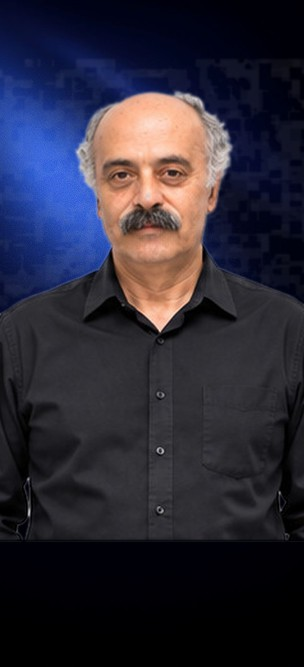
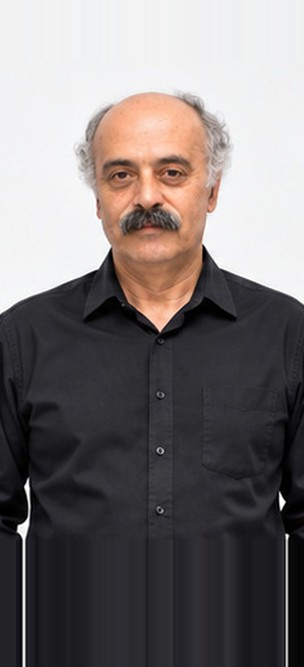
Equipa: volta ao fundo branco original + borda fina nos cartoes

diff --git a/index.html b/index.html
@@ -78,7 +78,7 @@
   }
 
   /* ===================== EQUIPA (cards) ===================== */
-  .team-card{position:relative;border-radius:3px;overflow:hidden;background:#243676;display:flex;flex-direction:column;box-shadow:0 10px 30px rgba(15,53,61,.08);transition:transform .4s ease,box-shadow .4s ease;}
+  .team-card{position:relative;border-radius:3px;overflow:hidden;background:#243676;display:flex;flex-direction:column;border:1px solid #d7dcdd;box-shadow:0 10px 30px rgba(15,53,61,.08);transition:transform .4s ease,box-shadow .4s ease;}
   .team-card:hover{transform:translateY(-10px);box-shadow:0 28px 54px rgba(15,53,61,.20);}
   .team-imgwrap{position:relative;aspect-ratio:1/1.32;overflow:hidden;flex:0 0 auto;}
   .team-imgwrap img{width:100%;height:100%;object-fit:cover;object-position:top center;display:block;transition:transform .6s ease;}
